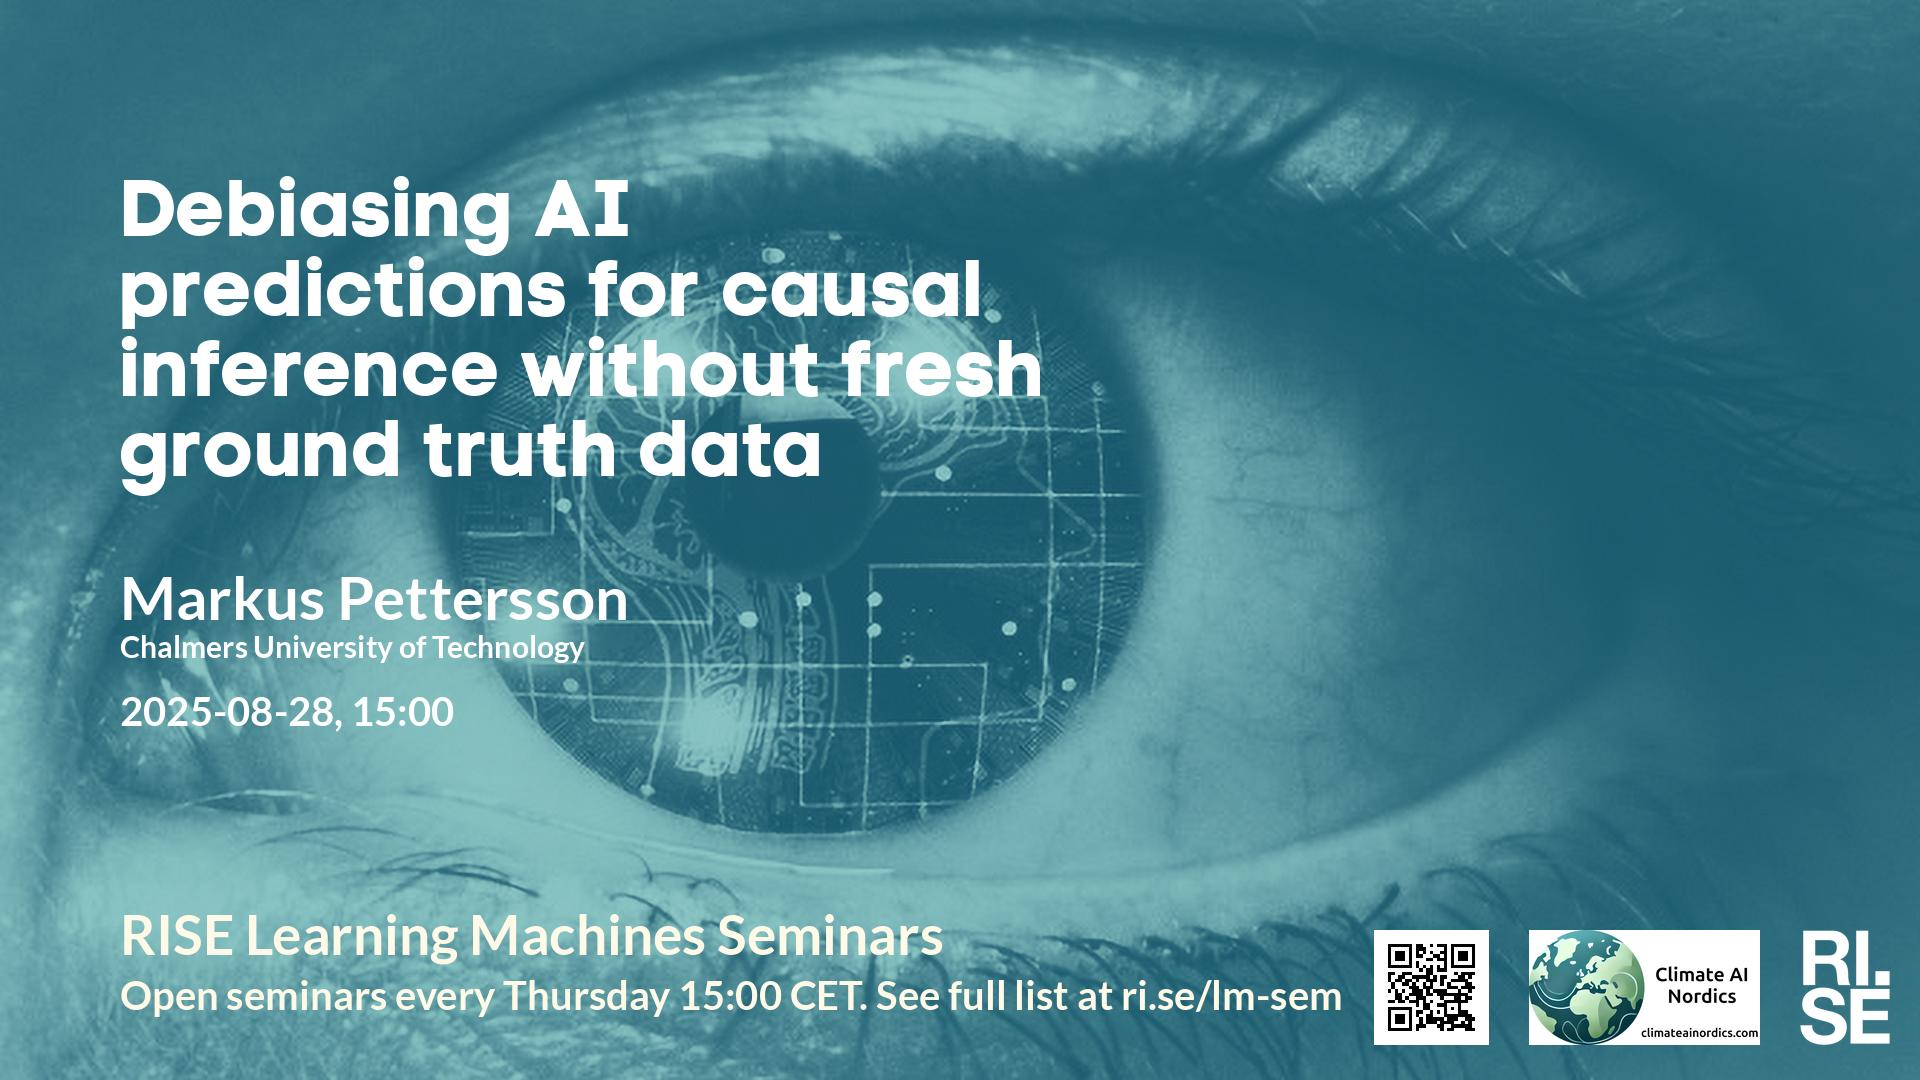
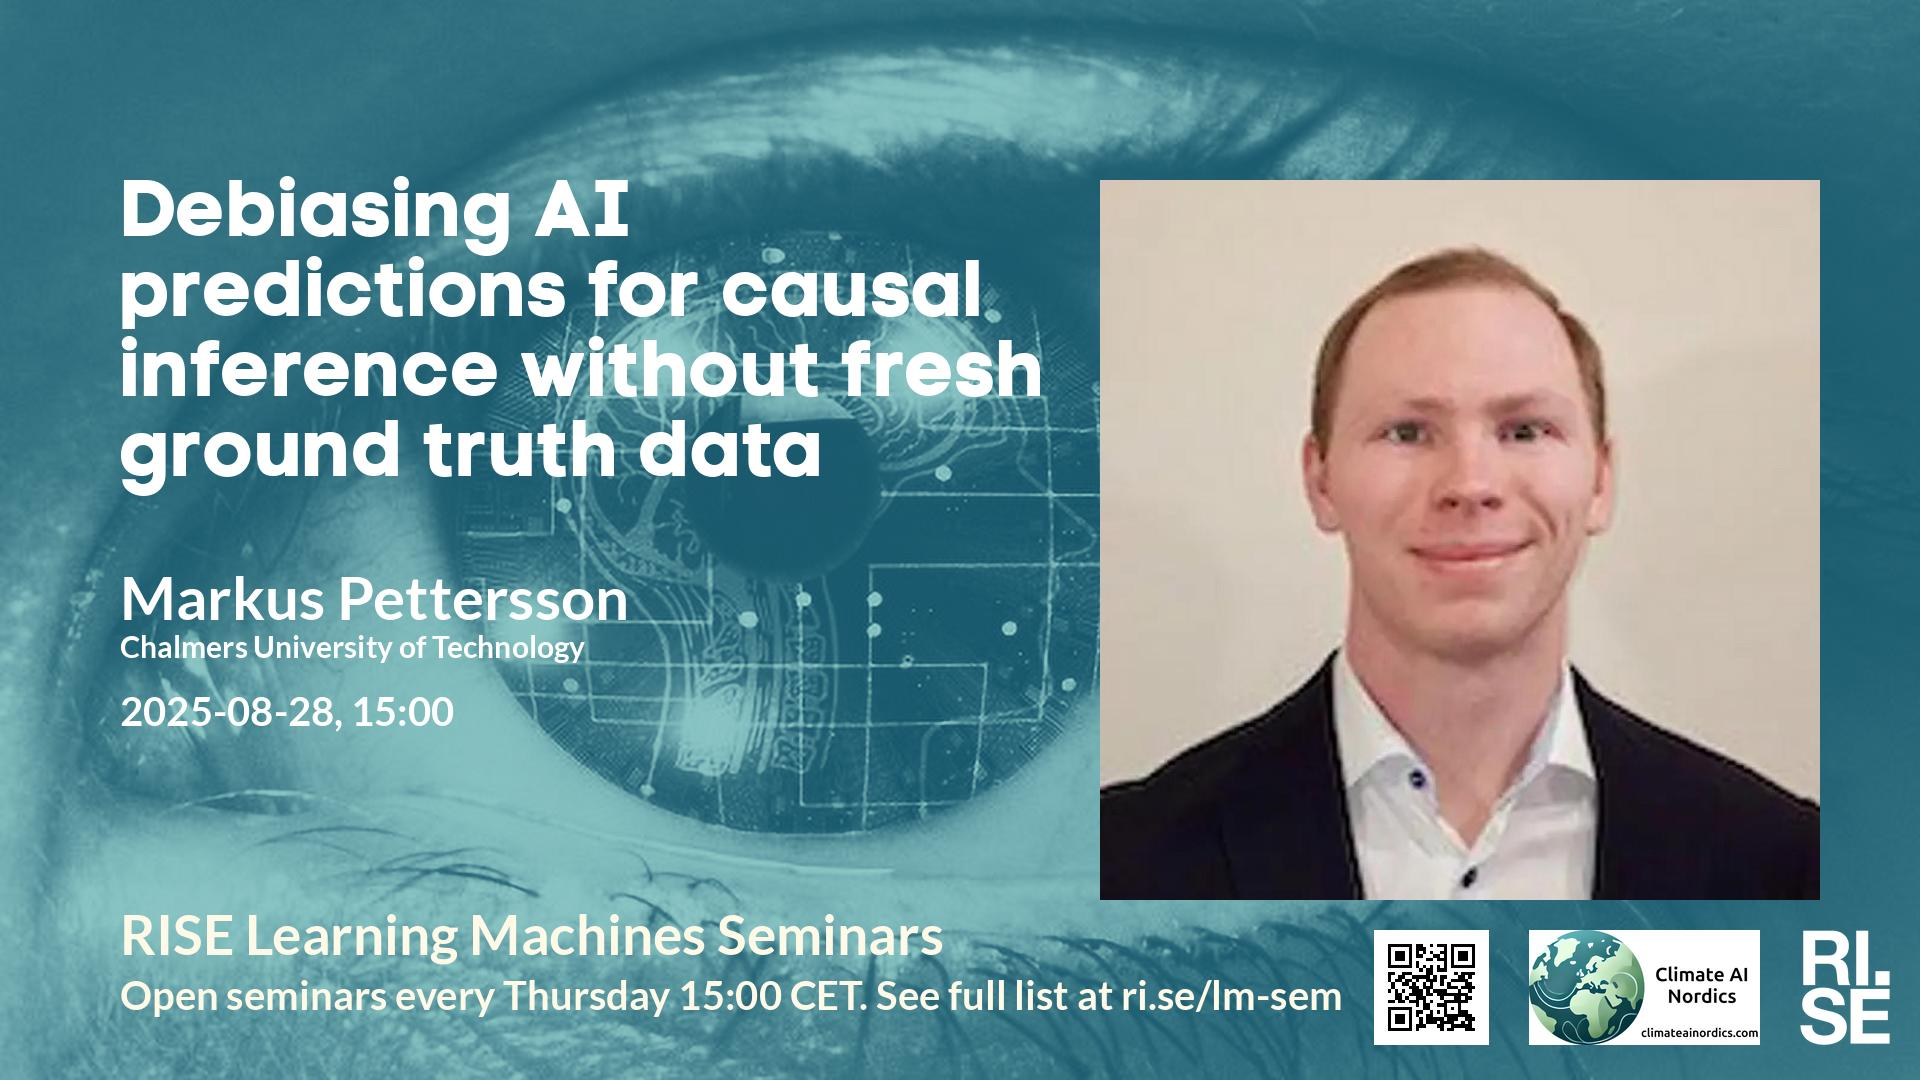
Updated plan on web site.

Changed region(s): [[0.5625, 0.1528, 0.9688, 0.8556]]

diff --git a/lm/2025.md b/lm/2025.md
@@ -32,7 +32,7 @@ table {border-collapse: collapse;}
 | <span style="color:red"> 2025-06-05 </span> | <span style="color:red"> No Seminar </span> | <span style="color:red">  </span> | <span style="color:red">  </span> | <span style="color:red">  </span> | <span style="color:red">  </span> | <span style="color:red"> CANCELLED </span> |
 | <span style="color:red"> 2025-06-12 </span> | <span style="color:red"> *Up for grabs!!!* </span> | <span style="color:red">  </span> | <span style="color:red">  </span> | <span style="color:red">  </span> | <span style="color:red">  </span> | <span style="color:red"> CANCELLED </span> |
 |  2025-06-19  |  [Lily Xu, Columbia University](2025-06-19.md)  |  [photo](2025-06-19-photo-lily-xu.jpg)  |  [social media ](2025-06-19-social-media-lily-xu.jpg)  |  [meeting backdrop ](2025-06-19-meeting-backdrop-lily-xu.jpg)  |  [youtube thumbnail ](2025-06-19-youtube-thumbnail-lily-xu.jpg)  |  STABP  |
-|  2025-08-28  |  [Markus Pettersson, Chalmers University of Technology](2025-08-28.md)  |    |  [social media ](2025-08-28-social-media-markus-pettersson.jpg)  |  [meeting backdrop ](2025-08-28-meeting-backdrop-markus-pettersson.jpg)  |  [youtube thumbnail ](2025-08-28-youtube-thumbnail-markus-pettersson.jpg)  |  STAB~~P~~  |
+|  2025-08-28  |  [Markus Pettersson, Chalmers University of Technology](2025-08-28.md)  |  [photo](2025-08-28-photo-markus-pettersson.jpg)  |  [social media ](2025-08-28-social-media-markus-pettersson.jpg)  |  [meeting backdrop ](2025-08-28-meeting-backdrop-markus-pettersson.jpg)  |  [youtube thumbnail ](2025-08-28-youtube-thumbnail-markus-pettersson.jpg)  |  STABP  |
 |  2025-09-11  |  [Georges Le Bellier, Conservatoire National des Arts et Métiers](2025-09-11.md)  |    |  [social media ](2025-09-11-social-media-georges-le-bellier.jpg)  |  [meeting backdrop ](2025-09-11-meeting-backdrop-georges-le-bellier.jpg)  |  [youtube thumbnail ](2025-09-11-youtube-thumbnail-georges-le-bellier.jpg)  |  S~~TABP~~  |
 |  2025-09-25  |  [Sigrid Passano Hellan, NORCE Norwegian Research Centre](2025-09-25.md)  |  [photo](2025-09-25-photo-sigrid-passano-hellan.jpg)  |  [social media ](2025-09-25-social-media-sigrid-passano-hellan.jpg)  |  [meeting backdrop ](2025-09-25-meeting-backdrop-sigrid-passano-hellan.jpg)  |  [youtube thumbnail ](2025-09-25-youtube-thumbnail-sigrid-passano-hellan.jpg)  |  S~~TA~~BP  |
 | <span style="color:grey"> 2025-10-09 </span> | <span style="color:grey"> Sebastian H. ? </span> | <span style="color:grey">  </span> | <span style="color:grey">  </span> | <span style="color:grey">  </span> | <span style="color:grey">  </span> | <span style="color:grey"> S~~TABP~~ </span> |

diff --git a/lm/index.md b/lm/index.md
@@ -32,7 +32,7 @@ table {border-collapse: collapse;}
 | <span style="color:red"> 2025-06-05 </span> | <span style="color:red"> No Seminar </span> | <span style="color:red">  </span> | <span style="color:red">  </span> | <span style="color:red">  </span> | <span style="color:red">  </span> | <span style="color:red"> CANCELLED </span> |
 | <span style="color:red"> 2025-06-12 </span> | <span style="color:red"> *Up for grabs!!!* </span> | <span style="color:red">  </span> | <span style="color:red">  </span> | <span style="color:red">  </span> | <span style="color:red">  </span> | <span style="color:red"> CANCELLED </span> |
 |  2025-06-19  |  [Lily Xu, Columbia University](2025-06-19.md)  |  [photo](2025-06-19-photo-lily-xu.jpg)  |  [social media ](2025-06-19-social-media-lily-xu.jpg)  |  [meeting backdrop ](2025-06-19-meeting-backdrop-lily-xu.jpg)  |  [youtube thumbnail ](2025-06-19-youtube-thumbnail-lily-xu.jpg)  |  STABP  |
-|  2025-08-28  |  [Markus Pettersson, Chalmers University of Technology](2025-08-28.md)  |    |  [social media ](2025-08-28-social-media-markus-pettersson.jpg)  |  [meeting backdrop ](2025-08-28-meeting-backdrop-markus-pettersson.jpg)  |  [youtube thumbnail ](2025-08-28-youtube-thumbnail-markus-pettersson.jpg)  |  STAB~~P~~  |
+|  2025-08-28  |  [Markus Pettersson, Chalmers University of Technology](2025-08-28.md)  |  [photo](2025-08-28-photo-markus-pettersson.jpg)  |  [social media ](2025-08-28-social-media-markus-pettersson.jpg)  |  [meeting backdrop ](2025-08-28-meeting-backdrop-markus-pettersson.jpg)  |  [youtube thumbnail ](2025-08-28-youtube-thumbnail-markus-pettersson.jpg)  |  STABP  |
 |  2025-09-11  |  [Georges Le Bellier, Conservatoire National des Arts et Métiers](2025-09-11.md)  |    |  [social media ](2025-09-11-social-media-georges-le-bellier.jpg)  |  [meeting backdrop ](2025-09-11-meeting-backdrop-georges-le-bellier.jpg)  |  [youtube thumbnail ](2025-09-11-youtube-thumbnail-georges-le-bellier.jpg)  |  S~~TABP~~  |
 |  2025-09-25  |  [Sigrid Passano Hellan, NORCE Norwegian Research Centre](2025-09-25.md)  |  [photo](2025-09-25-photo-sigrid-passano-hellan.jpg)  |  [social media ](2025-09-25-social-media-sigrid-passano-hellan.jpg)  |  [meeting backdrop ](2025-09-25-meeting-backdrop-sigrid-passano-hellan.jpg)  |  [youtube thumbnail ](2025-09-25-youtube-thumbnail-sigrid-passano-hellan.jpg)  |  S~~TA~~BP  |
 | <span style="color:grey"> 2025-10-09 </span> | <span style="color:grey"> Sebastian H. ? </span> | <span style="color:grey">  </span> | <span style="color:grey">  </span> | <span style="color:grey">  </span> | <span style="color:grey">  </span> | <span style="color:grey"> S~~TABP~~ </span> |
